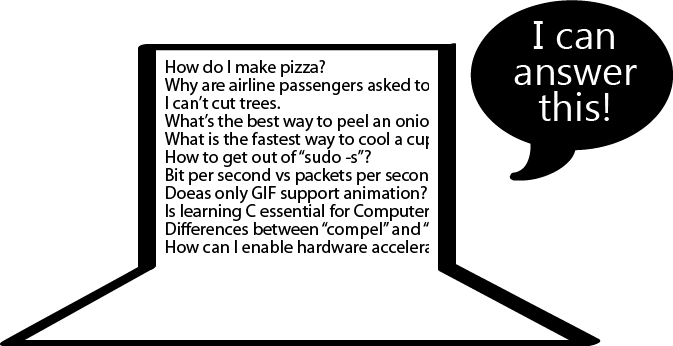
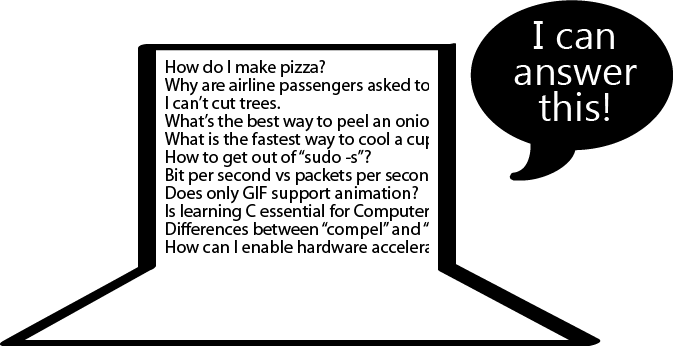
Fixing Tutorial4.png typo.

Changed region(s): [[0.2808, 0.5202, 0.6553, 0.6069]]

diff --git a/README.md b/README.md
@@ -22,6 +22,10 @@ Stack Overflow; StackOverflow; Stack Exchange; Questions; Reader; StackExchange;
 
 ### Notes
 
+Questions 1.0.4.0 features:
+
+* Fixing tutorial typo.
+
 Questions 1.0.3.0 features:
 
 * Adding favicons.
@@ -42,6 +46,10 @@ Questions 1.0.0.1 new features:
 * Snapped view improvements. 
 * Tutorial for Questions app newbies. 
 * Adding badge updates.
+
+### Download
+
+Download from http://apps.microsoft.com/windows/en-us/app/questions/ec6e62be-d597-4d61-a932-21f2936d2be3
 
 ### Stack Exchange API
 
